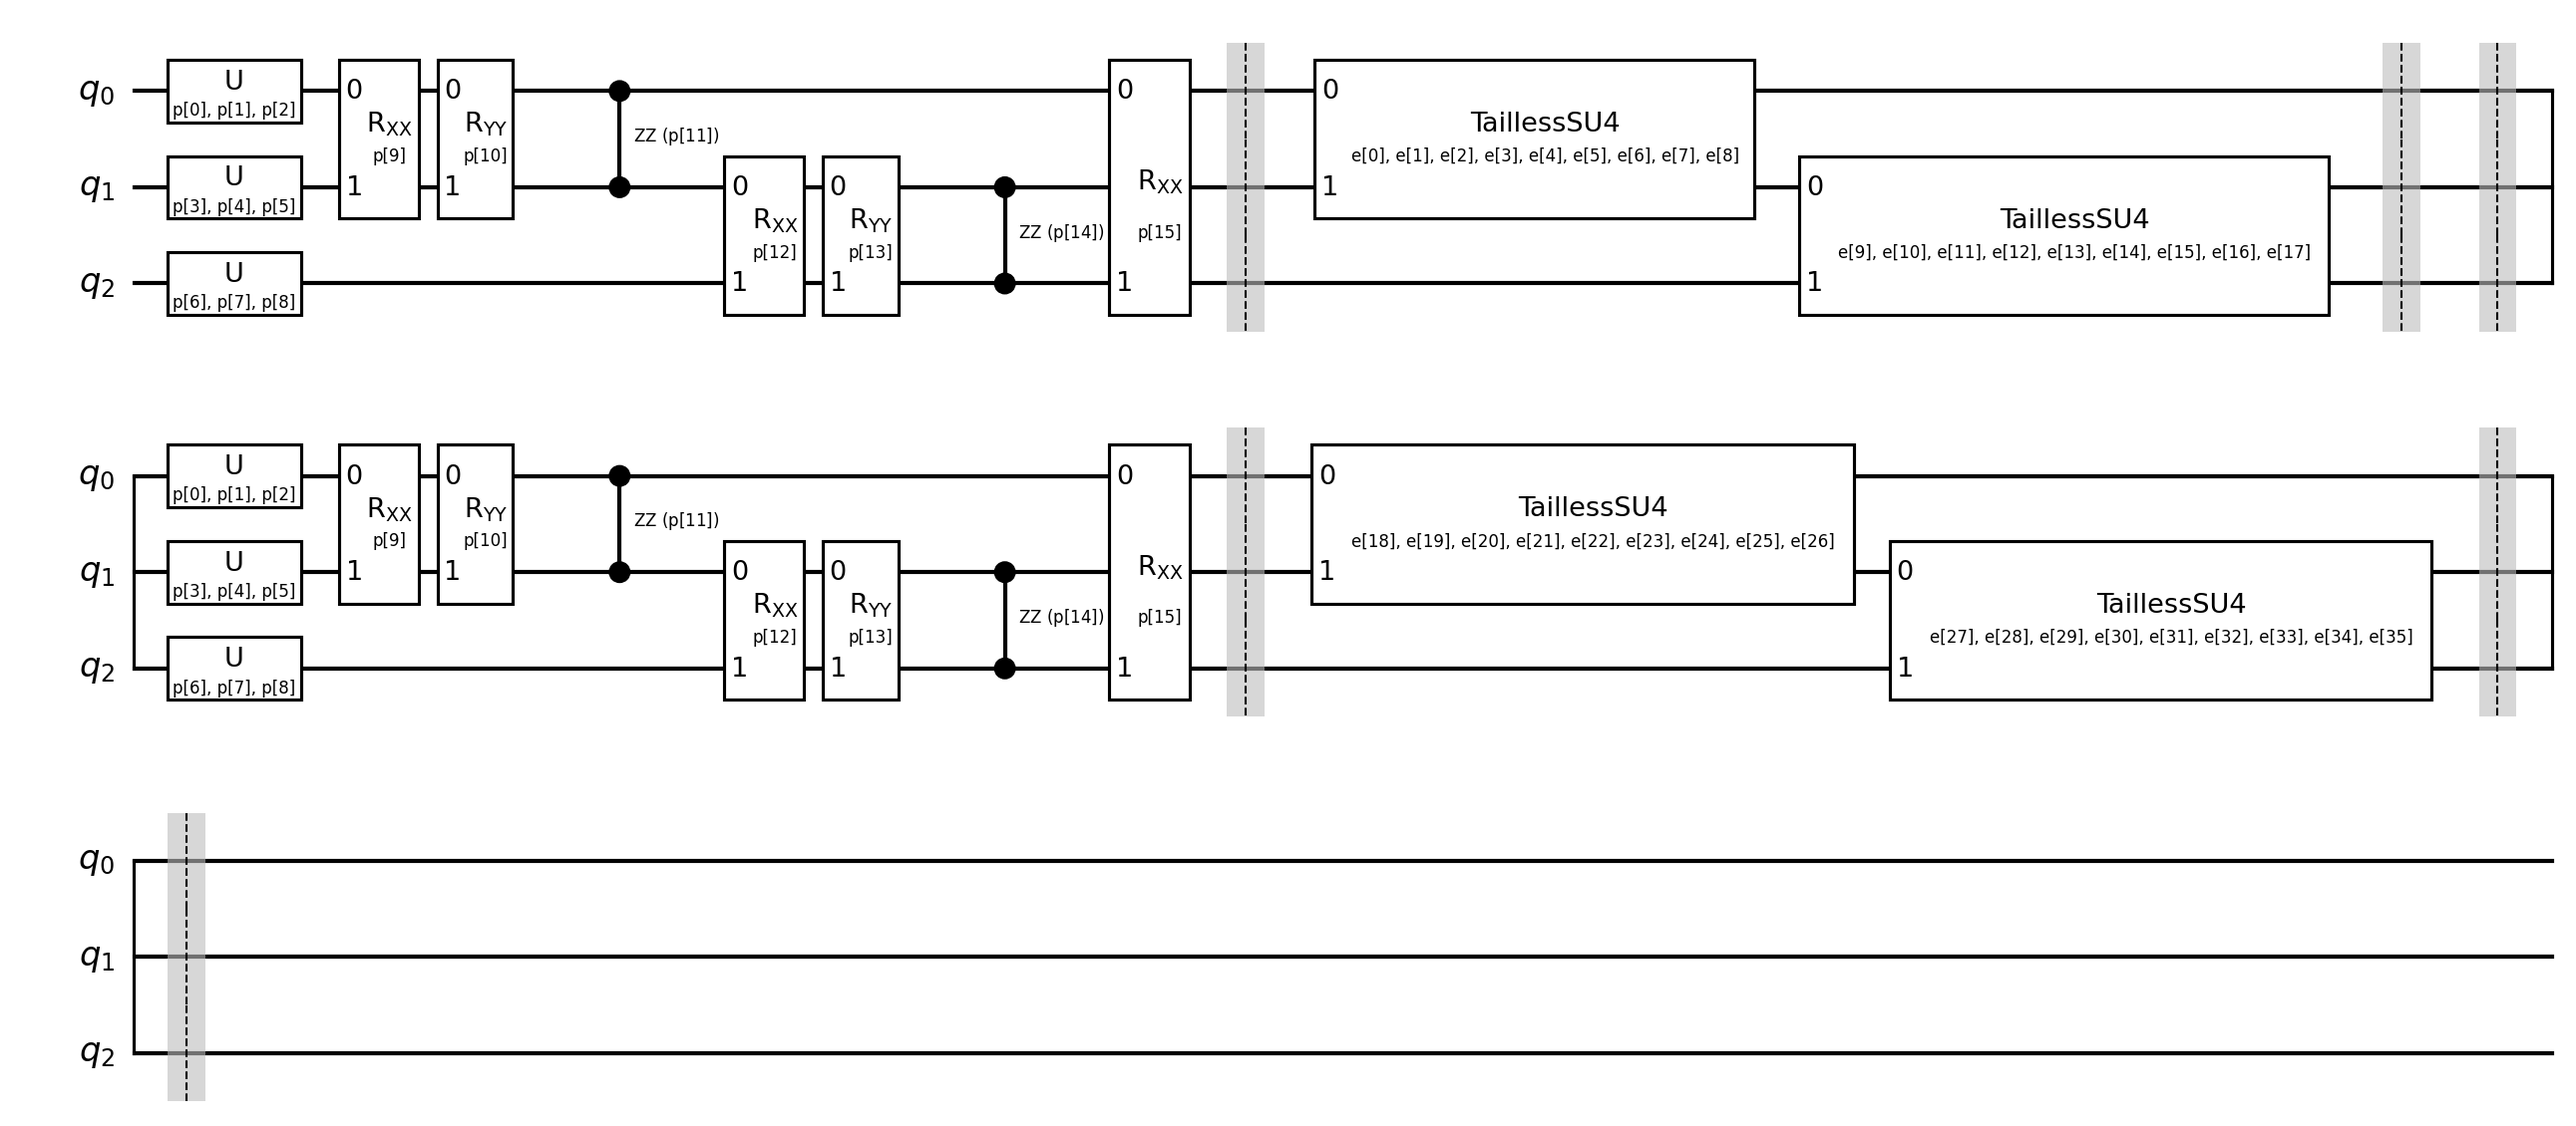
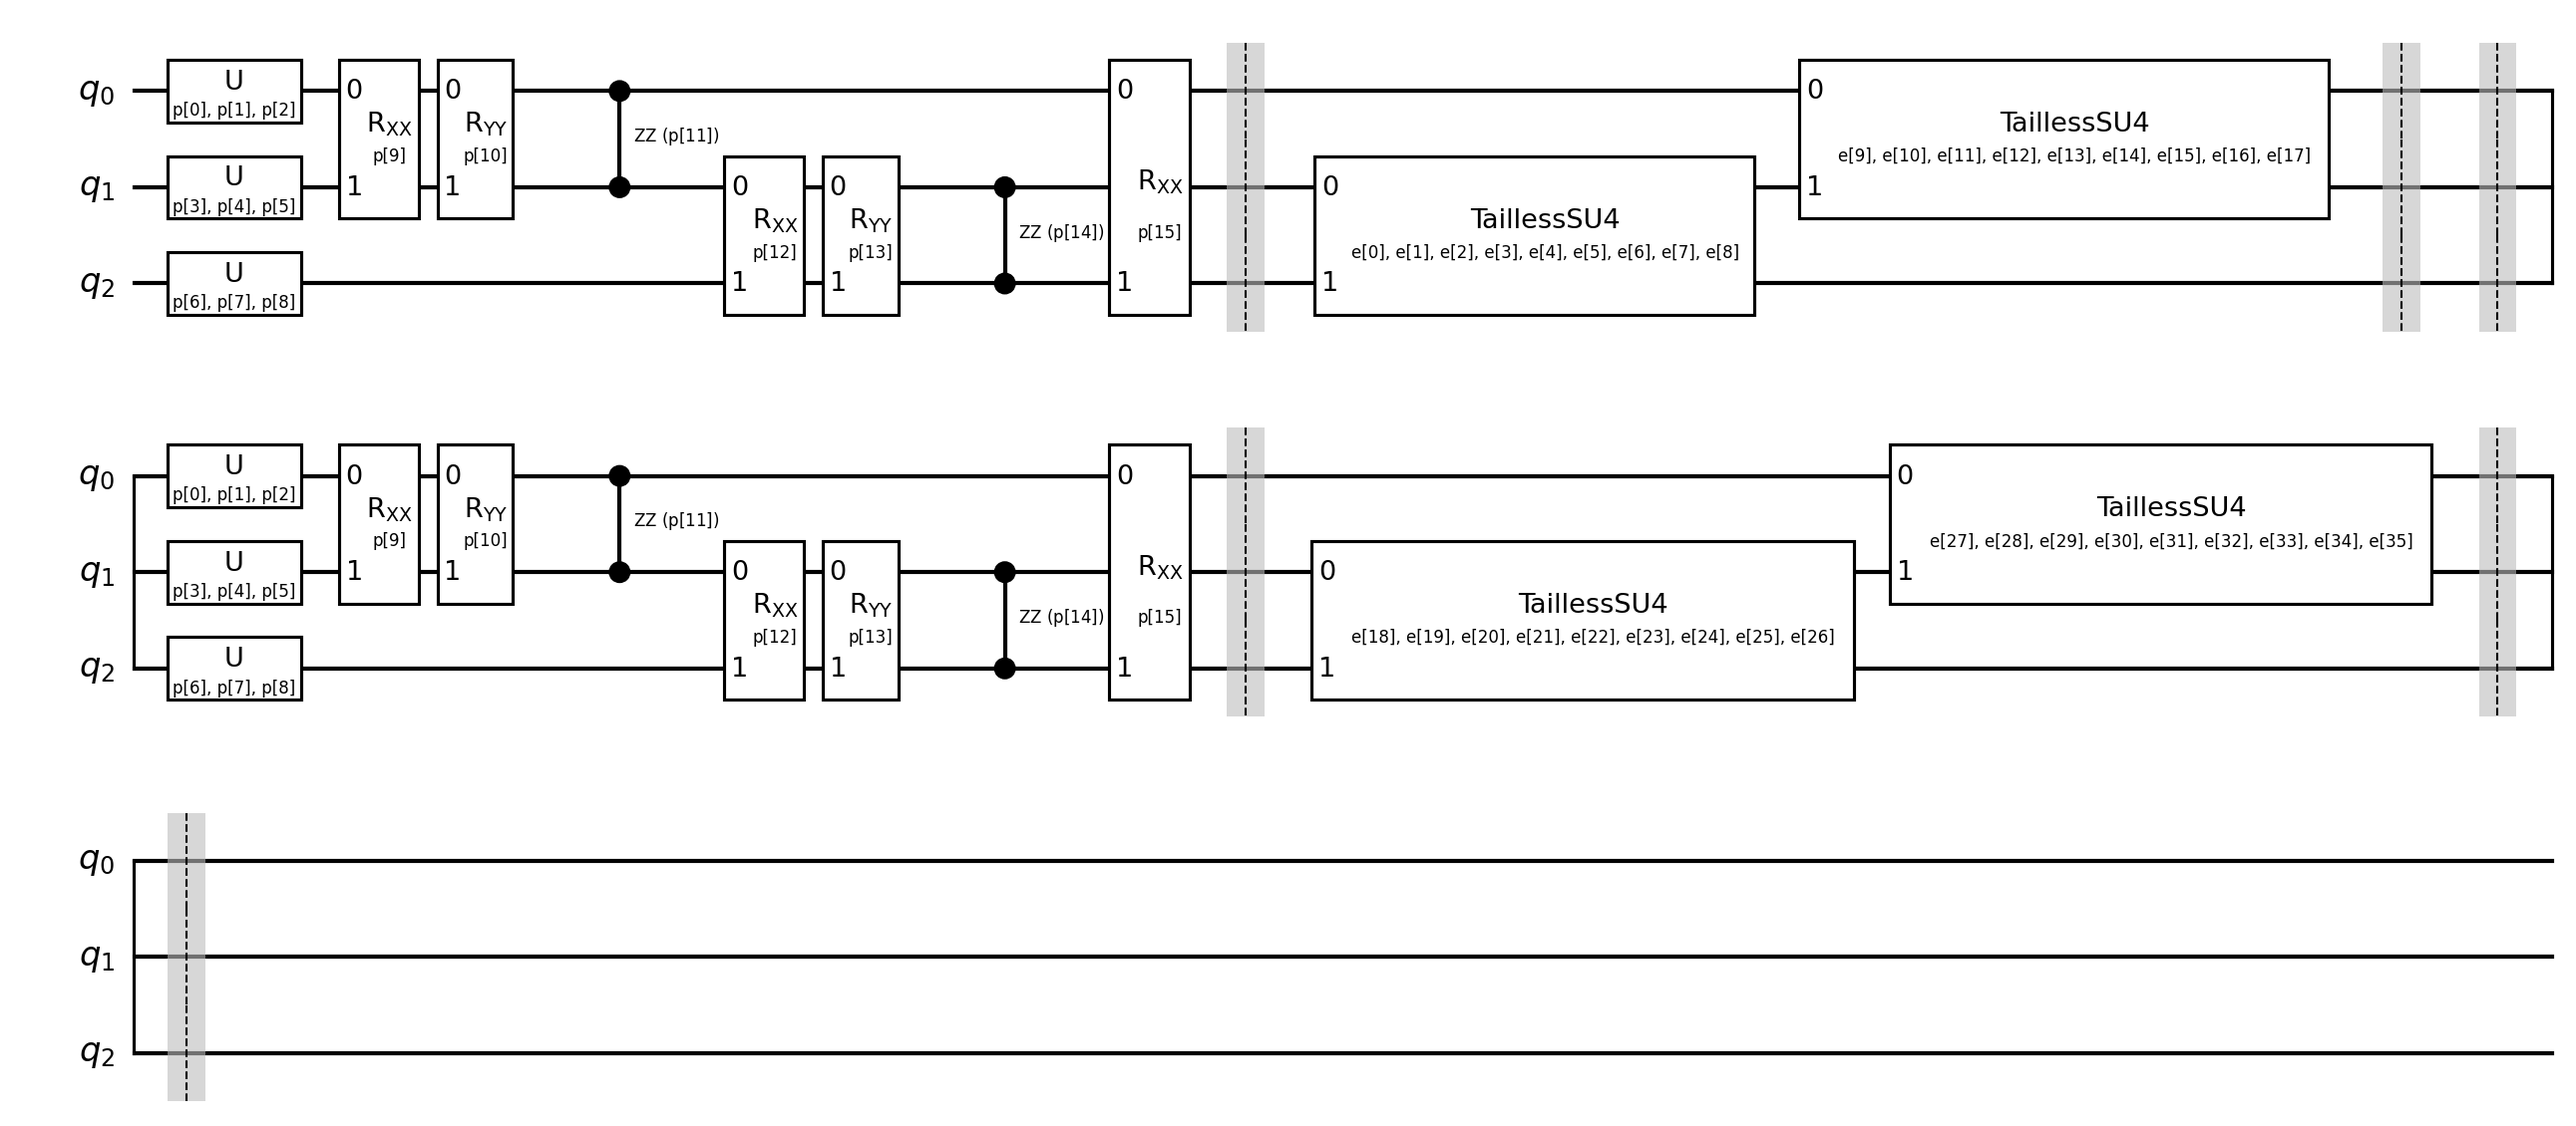
updates

diff --git a/Models/PatchEncoding/qk/PatchEmbedding.py b/Models/PatchEncoding/qk/PatchEmbedding.py
@@ -67,8 +67,8 @@ def fourByFourPatchReupload(
         circ.rzz(pixels[14], 1, 2)
         circ.rxx(pixels[15], 0, 2)
         circ.barrier()
-        circ.append(createTaillessSU4(encoding_params[0+18*i:9+18*i]).to_instruction(), [0,1])
-        circ.append(createTaillessSU4(encoding_params[9+18*i:18+18*i]).to_instruction(), [1,2])
+        circ.append(createTaillessSU4(encoding_params[0+18*i:9+18*i]).to_instruction(), [1,2])
+        circ.append(createTaillessSU4(encoding_params[9+18*i:18+18*i]).to_instruction(), [0,1])
         circ.barrier()
         circ.barrier()
     return circ
